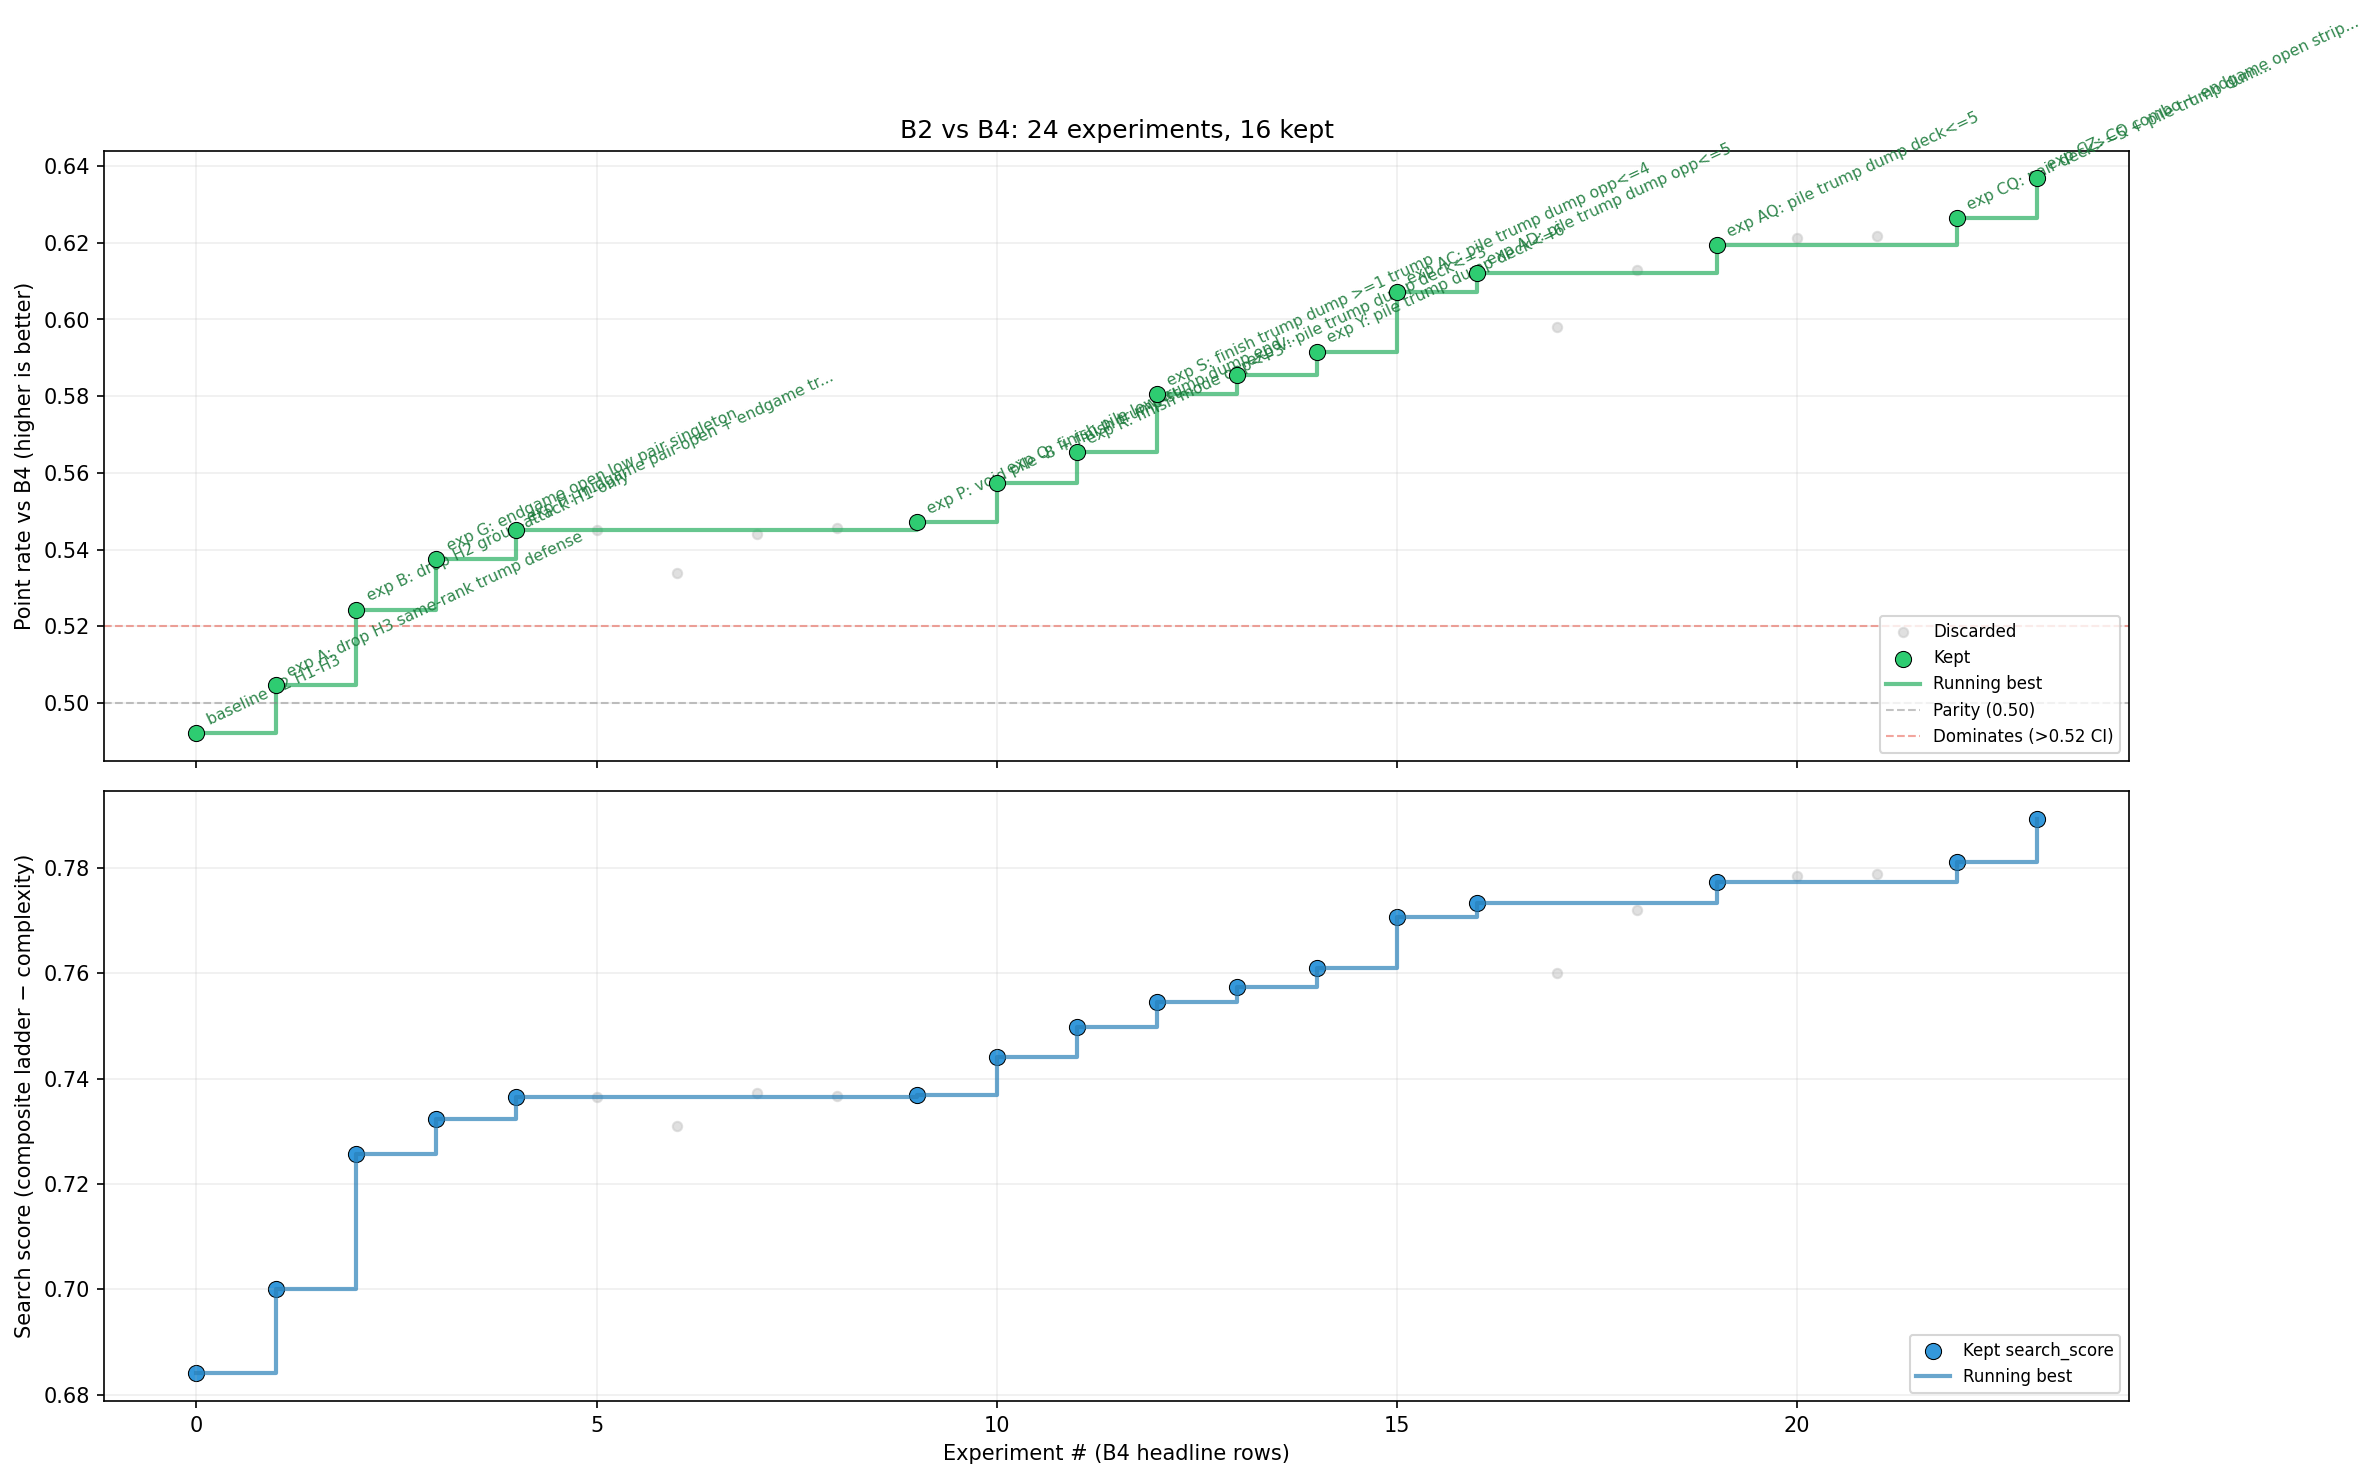
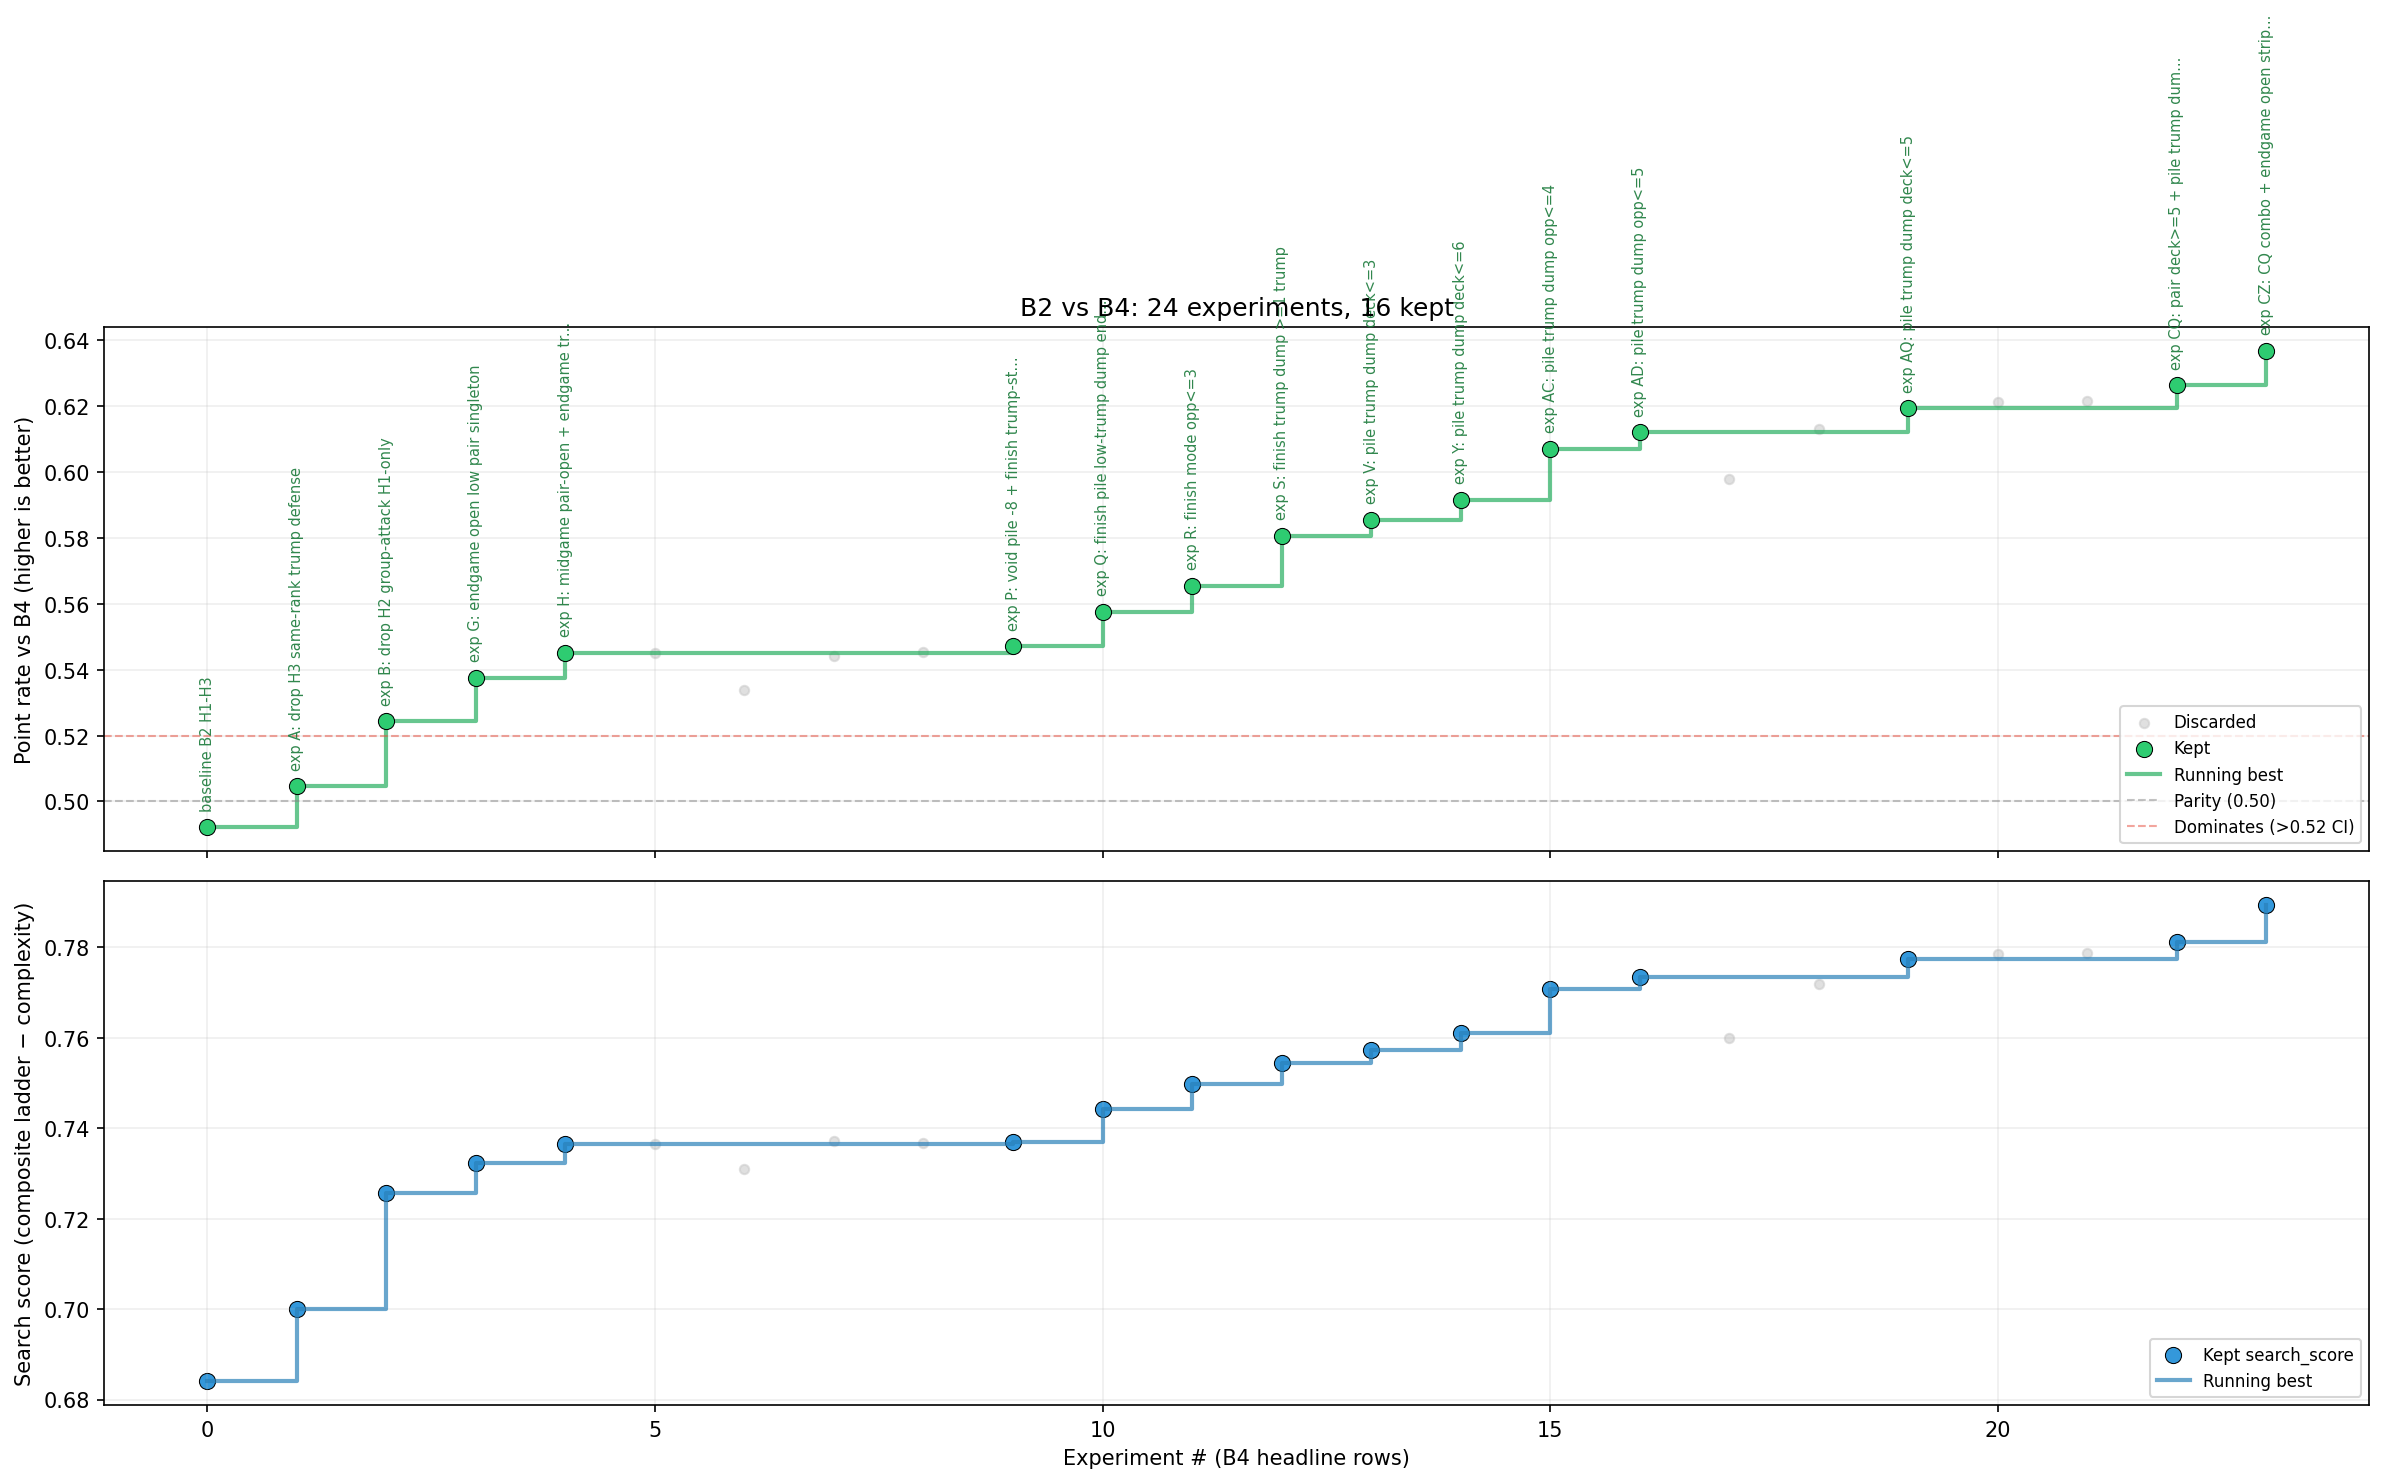
meta: add ladder chart generator with vertical labels, regenerate progress_ladder.png

diff --git a/scripts/make_ladder.py b/scripts/make_ladder.py
@@ -1,0 +1,92 @@
+'''Regenerate the curated hero ladder chart (progress_ladder.png).
+
+This is the zoomed view of the early ladder climb -- the first `LADDER_N`
+B2-vs-B4 experiments from results.tsv (the run that took B2 from parity up the
+baseline ladder). It is kept as a separate curated chart from the live
+analysis.ipynb outputs (progress.png / occam.png / score_alignment.png).
+
+Kept-experiment labels are rotated vertical so they do not overlap.
+
+Run from the repo root:
+    python scripts/make_ladder.py
+'''
+from pathlib import Path
+
+import matplotlib.pyplot as plt
+import numpy as np
+import pandas as pd
+
+LADDER_N = 24  # first N B4 experiments form the curated ladder climb
+RESULTS_PATH = Path('results.tsv')
+OUT_PATH = Path('progress_ladder.png')
+
+
+def load_b4(path):
+    df = pd.read_csv(path, sep='\t', dtype=str)
+    for col in ('point_rate', 'search_score', 'lower_ci', 'games', 'complexity'):
+        df[col] = pd.to_numeric(df[col], errors='coerce')
+    df['status'] = df['status'].str.strip().str.lower()
+    df['opponent'] = df['opponent'].str.strip()
+    df['commit'] = df['commit'].str.strip()
+    b4 = df[df['opponent'] == 'B4'].copy().reset_index(drop=True)
+    b4['exp_id'] = np.arange(len(b4))
+    return b4
+
+
+def main():
+    if not RESULTS_PATH.exists():
+        raise FileNotFoundError(
+            'results.tsv not found. Run the autoresearch loop first (see program.md).'
+        )
+    ladder = load_b4(RESULTS_PATH)
+    ladder = ladder[ladder['exp_id'] < LADDER_N].copy()
+
+    fig, axes = plt.subplots(2, 1, figsize=(16, 10), sharex=True)
+    disc = ladder[ladder['status'] == 'discard']
+    kept = ladder[ladder['status'] == 'keep']
+
+    # --- Top: point_rate vs B4 ---
+    ax = axes[0]
+    ax.scatter(disc['exp_id'], disc['point_rate'], c='#cccccc', s=20, alpha=0.6,
+               label='Discarded')
+    ax.scatter(kept['exp_id'], kept['point_rate'], c='#2ecc71', s=60, zorder=4,
+               label='Kept', edgecolors='black', linewidths=0.5)
+    if len(kept):
+        ax.step(kept['exp_id'], kept['point_rate'].cummax(), where='post',
+                color='#27ae60', linewidth=2, alpha=0.7, label='Running best')
+        for _, row in kept.iterrows():
+            desc = str(row['description']).strip()
+            if len(desc) > 40:
+                desc = desc[:37] + '...'
+            ax.annotate(desc, (row['exp_id'], row['point_rate']),
+                        textcoords='offset points', xytext=(0, 8), fontsize=7,
+                        color='#1a7a3a', alpha=0.9, rotation=90, ha='center', va='bottom')
+    ax.axhline(0.50, color='#888', linestyle='--', linewidth=1, alpha=0.5,
+               label='Parity (0.50)')
+    ax.axhline(0.52, color='#e74c3c', linestyle='--', linewidth=1, alpha=0.5,
+               label='Dominates (>0.52 CI)')
+    ax.set_ylabel('Point rate vs B4 (higher is better)')
+    ax.legend(loc='lower right', fontsize=8)
+    ax.grid(True, alpha=0.2)
+    ax.set_title(f'B2 vs B4: {len(ladder)} experiments, {len(kept)} kept')
+
+    # --- Bottom: search_score ---
+    ax2 = axes[1]
+    ax2.scatter(disc['exp_id'], disc['search_score'], c='#cccccc', s=20, alpha=0.6)
+    ax2.scatter(kept['exp_id'], kept['search_score'], c='#3498db', s=60,
+                edgecolors='black', linewidths=0.5, label='Kept search_score')
+    if len(kept):
+        ax2.step(kept['exp_id'], kept['search_score'].cummax(), where='post',
+                 color='#2980b9', linewidth=2, alpha=0.7, label='Running best')
+    ax2.set_xlabel('Experiment # (B4 headline rows)')
+    ax2.set_ylabel('Search score (composite ladder \u2212 complexity)')
+    ax2.legend(loc='lower right', fontsize=8)
+    ax2.grid(True, alpha=0.2)
+
+    plt.tight_layout()
+    plt.savefig(OUT_PATH, dpi=150, bbox_inches='tight')
+    print(f'Saved {OUT_PATH} ({len(ladder)} experiments, {len(kept)} kept)')
+
+
+if __name__ == '__main__':
+    main()
